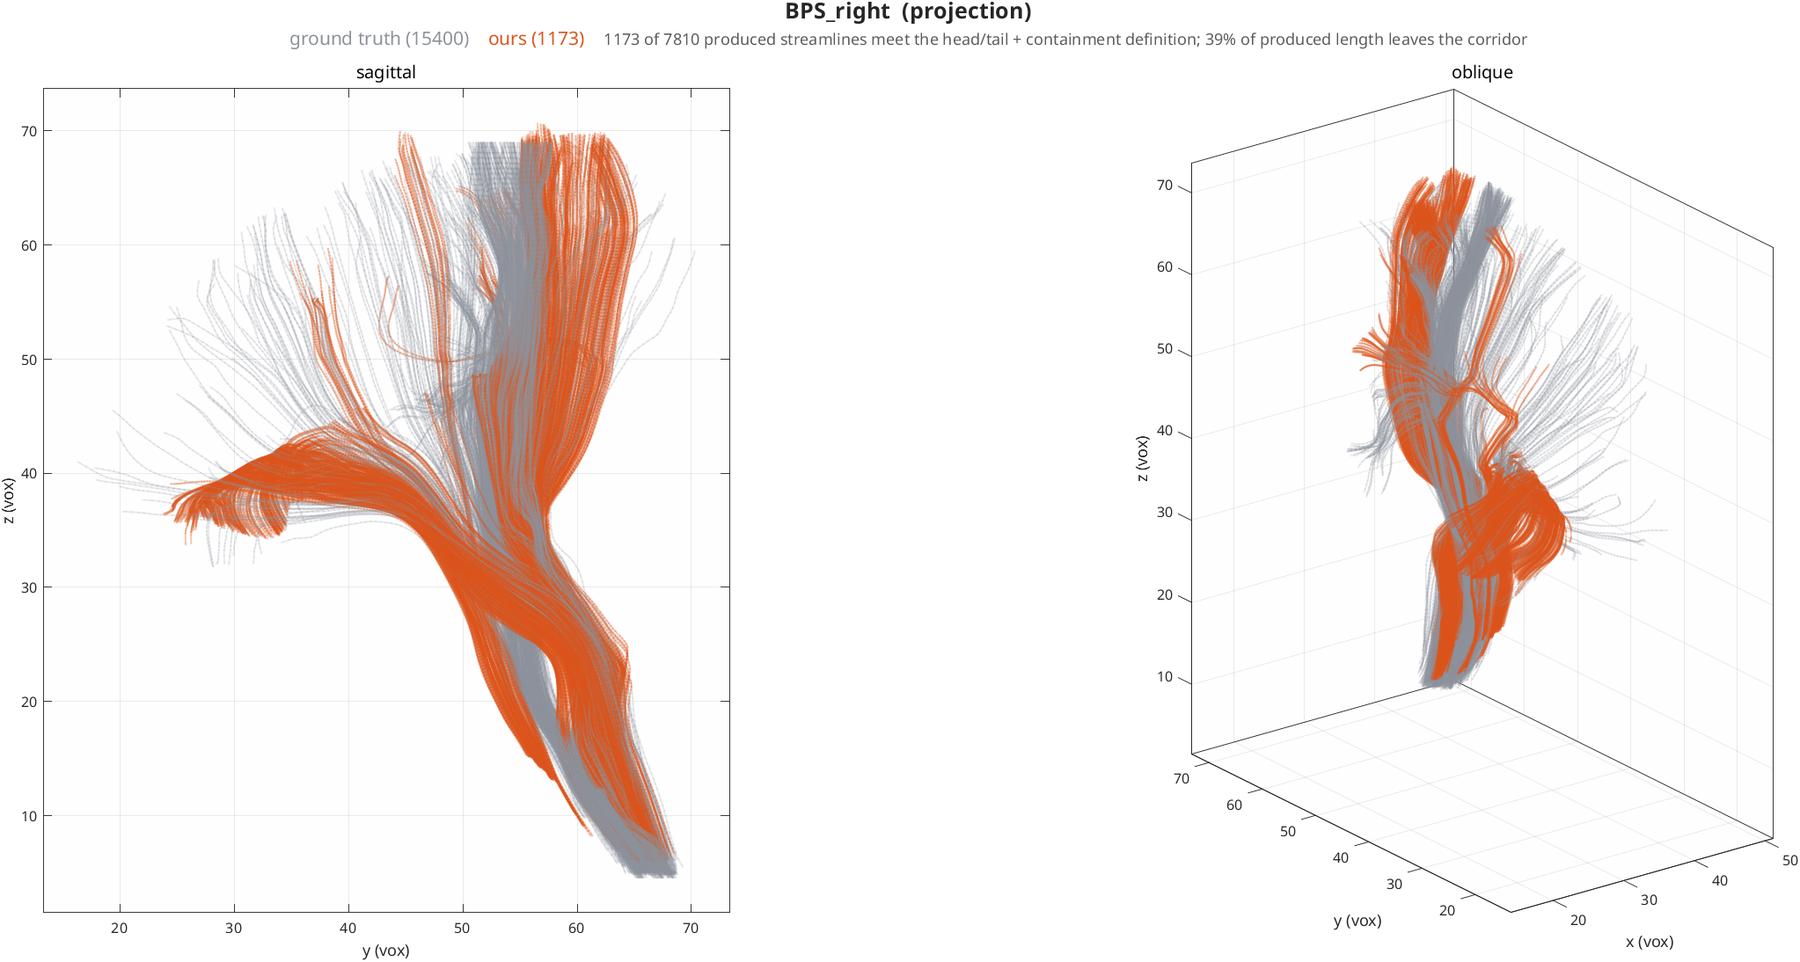
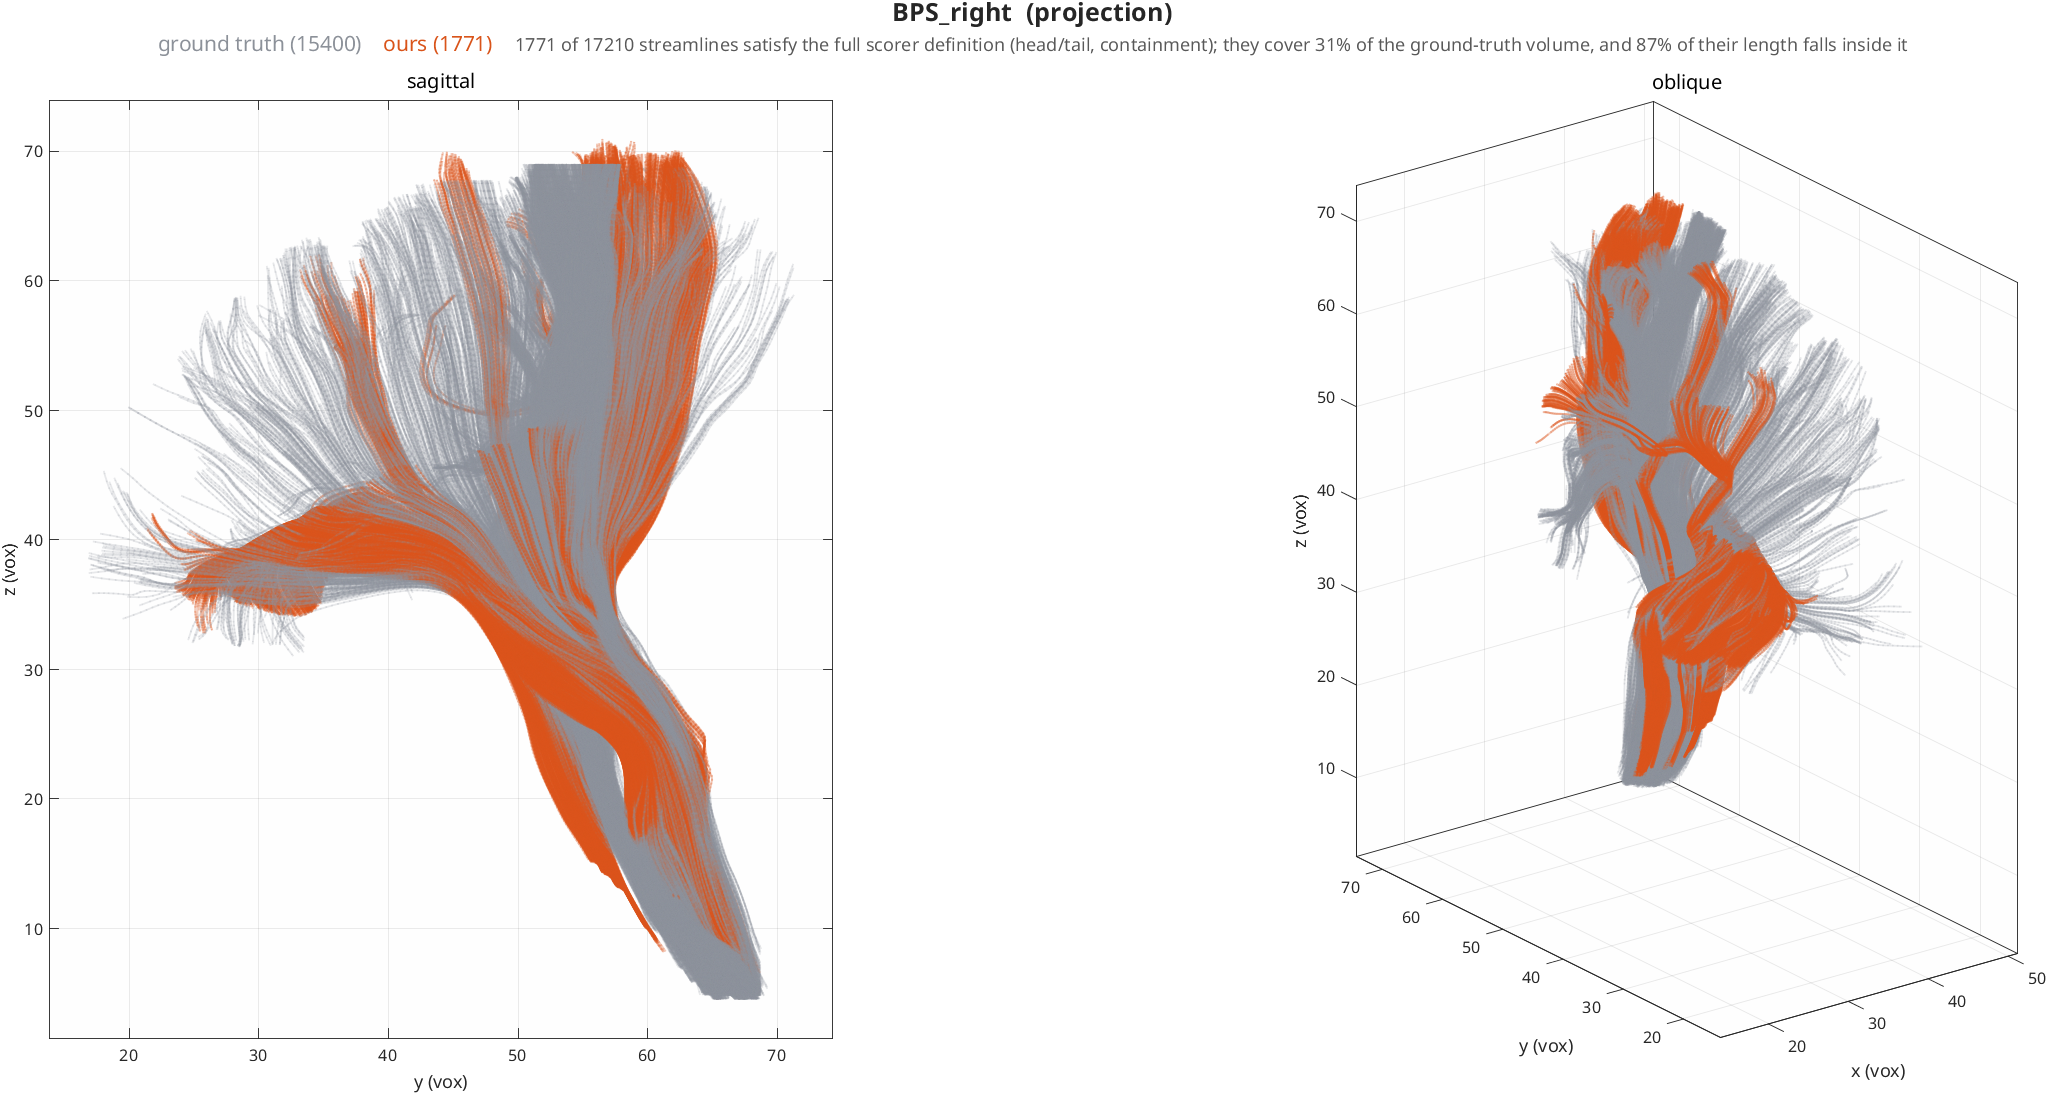
Report bundle coverage honestly, and the whole-brain score
The figures are regenerated at FA thresholds matched to the tissue and
segmented by the scorer's full definition. The reported numbers change
substantially, and downward.

This page previously led with 94-100% "agreement". That was a
precision-like quantity measured against the containment corridor rather
than the ground truth. Coverage of the ground truth - the recall-like
number, and the one that belongs next to the picture - is 31-53%. Both are
now reported side by side so neither can stand alone.

Adds the first result comparable to a published submission: whole-brain,
60209 streamlines, mean F1 0.350, OL 0.323, OR_gt 0.283, 22 of 26 bundles
found, 53% of streamlines valid.

Adds a census of why streamlines leave a bundle, over the 715
Cingulum_right streamlines that ran along it and then departed: 27% at a
planar voxel (crossing fibres), 9% where FA collapses, and 65% at a voxel
whose tensor is linear with normal FA and confidently pointing along a
different bundle. That last mode is the largest and CSD cannot address it,
since CSD separates fibres by orientation and two tangential bundles share
one. The direction field itself sits 5.6-9.1 degrees from the ground truth,
so this is not integration error.

diff --git a/docs/ISMRM_SCORING_ANALYSIS.md b/docs/ISMRM_SCORING_ANALYSIS.md
@@ -23,43 +23,99 @@ original 2015 scoring system).
 
 ## Reconstruction against ground truth
 
-Each bundle below is seeded from its own ISMRM mask and then **segmented the way
-the scorer defines a bundle**: one endpoint in each of the head and tail ROIs,
-and every point inside the containment corridor. Grey is the ground-truth
-tractogram; colour is ours.
+Each bundle below is seeded from its own ISMRM mask and then segmented by the
+**full scorer definition** taken from `config_file_segmentation.json`: one
+endpoint in each of the head and tail ROIs, every point inside the containment
+corridor, plus any inclusion mask and length bounds that bundle declares
+(`Cingulum_right` carries `length_x`, `CC_u_shaped` an inclusion mask and three
+length bounds). Grey is the ground-truth tractogram; colour is ours.
 
-!!! note "These are the streamlines that meet the definition, not everything produced"
-    The counts in each caption say how many of the produced streamlines survive
-    that test, and how much of the produced length leaves the corridor. Both
-    numbers are large: the tracker generates far more than the definition
-    accepts. Read the figure as *what the scorer would count*, not as the
-    tracker's raw output.
+Two different things are reported, and conflating them flatters the result:
 
-    Showing the raw output instead is not more informative, because the
-    containment corridor is a permissive gate rather than a bundle shape — for
-    `UF_right` it is 2.5× the volume of the ground-truth bundle and 60% of it is
-    space the ground truth never enters. Streamlines merely clipped to that
-    corridor spread through the empty 60%, agreeing with the ground truth over
-    only 62–93% of their length against 94–100% for the segmented bundles.
+- **coverage of the ground truth** — what fraction of the true bundle's volume our
+  streamlines occupy. This is the recall-like number and the honest headline.
+- **length inside the ground truth** — what fraction of our streamline length falls
+  within the true bundle. This is precision-like, and it is always the prettier
+  of the two.
 
-**How much the tracker overproduces:**
-
-| bundle | produced | meet the definition | length outside the corridor | agreement with GT |
+| bundle | produced | meets full definition | covers GT volume | length inside GT |
 |---|--:|--:|--:|--:|
-| CC_u_shaped | 16287 | 5656 (35%) | 26% | 99% |
-| BPS_right | 7810 | 1173 (15%) | 43% | 99% |
-| ILF_right | 2394 | 718 (30%) | 42% | 95% |
-| Cingulum_right | 5450 | 585 (11%) | 53% | 100% |
-| UF_right | 1398 | 363 (26%) | 62% | 98% |
-| SLF_right | 3901 | 365 (9%) | 59% | 94% |
+| CC_u_shaped | 39959 | 9864 | 53% | 87% |
+| BPS_right | 17210 | 1771 | 31% | 87% |
+| ILF_right | 6404 | 1541 | 52% | 75% |
+| Cingulum_right | 14074 | 1940 | 46% | 94% |
+| UF_right | 4693 | 995 | 49% | 75% |
+| SLF_right | 10620 | 1350 | 37% | 71% |
 
-Two honest headlines sit in that table. The streamlines that meet the definition
-agree with the ground truth over 94–100% of their length — the reconstruction is
-good. But only **9–35% of what the tracker produces** meets it, and between a
-quarter and two thirds of produced length leaves the bundle it was seeded in. The streamlines are typically correct along the bundle and then
-continue past its end onto whichever tract is locally strongest — a crossing
-problem, not a termination one. `field: csd` is the intended remedy and has not
-yet been evaluated here.
+**We reconstruct between a third and a half of each bundle**, and what we do
+reconstruct sits mostly inside the true bundle (71–94%). Earlier versions of this
+page quoted 94–100% "agreement"; that was the precision-like quantity measured
+against the *corridor* rather than the ground truth, and it should not have been
+the headline.
+
+!!! warning "The `produced` column is not a failure rate"
+    It is dominated by a seeding choice. These runs seed uniformly inside each
+    bundle's containment corridor, and that corridor is far larger than the
+    bundle: for `Cingulum_right` it is 38188 voxels against the 8070 the bundle
+    actually occupies, so **79% of the corridor is other tissue**. 62% of the
+    seeds therefore start off-bundle, and 93% of those leave the corridor —
+    which is the *correct* behaviour for a tracker following the fibres that are
+    really there. Seeds that do start inside the true bundle stay contained at
+    41%, against 7% for the rest. Only a whole-brain run gives this denominator
+    a meaning; see below.
+
+## Whole-brain benchmark
+
+`config/ismrm_wholebrain.yml` produces one whole-brain tractogram and lets the
+scorer segment all 26 bundles out of it, which is what the challenge is designed
+for and what makes the numbers comparable to a published submission.
+
+| metric | value |
+|---|--:|
+| streamlines | 60209 |
+| mean F1 | 0.350 |
+| mean overlap (OL) | 0.323 |
+| mean overreach (OR\_gt) | 0.283 |
+| valid bundles found | 22 of 26 |
+| valid streamlines | 31641 (53%) |
+| invalid streamlines | 28568 |
+
+DTI with an accurate integrator finds most of the bundles and gets about half its
+streamlines accepted. That is a middling result, and the reason is structural
+rather than numerical.
+
+## Why streamlines leave the bundle
+
+The direction field is not the weak link. Sampled along the ground truth,
+the interpolated field the tracker actually follows sits 5.6–9.1° from the true
+tract direction, and RK4 on it converges at observed order 4.00
+(`docs/CONVERGENCE.md`). The failures are not integration error.
+
+Taking the 715 `Cingulum_right` streamlines that demonstrably ran along the
+bundle and then left it, and classifying the voxel where each one first departed
+by more than 45°:
+
+| what the tensor looks like where it departs | share | interpretation |
+|---|--:|---|
+| planar (C_P > 0.12), FA normal | 27% | two fibre populations in one voxel |
+| FA collapsed below 0.08 | 9% | too little anisotropy to define a direction |
+| linear (median C_L 0.191), FA normal (0.184) | 65% | a confident single direction belonging to another bundle |
+
+The median departure is at z = 48, on the dorsal arc, not at the bend — only 42%
+occur in the bend band at all.
+
+This matters for what to do next. `field: csd` resolves multiple fibre
+orientations per voxel and should recover a useful part of the 27%. It cannot
+address the 65%: CSD separates fibres by *orientation*, and two bundles running
+tangentially share one orientation, so nothing local distinguishes them. That
+needs non-local information — global tractography, anatomical priors, or
+bundle-level regularisation.
+
+One further property makes small errors expensive. A streamline is a path
+integral, so a direction error is not averaged away by later steps: once a
+streamline transfers onto a neighbouring tract, every subsequent step correctly
+follows *that* tract. A field with 6° median error still yields 46% coverage
+because the rare large errors are absorbing.
 
 These remain **qualitative** figures, and seeding from a bundle's own mask is a
 far easier problem than the whole-brain submission the challenge is designed

diff --git a/docs/CONVERGENCE.md b/docs/CONVERGENCE.md
@@ -41,16 +41,19 @@ with the refinement parameter is not a fixed problem to converge to.
 ![Right uncinate fasciculus: ours against the ISMRM ground truth](img/bundle_uf_right.png)
 
 *The seed region. Grey is the ISMRM ground-truth `UF_right` bundle, red is ours,
-segmented by the scorer's own head/tail and containment test. Shown only to establish what the
-convergence ladders are tracking through — it is a validation figure and the
-ladders do not depend on it.*
+segmented by the scorer's full definition (head/tail endpoints, containment, and
+any inclusion or length criteria the bundle declares). Shown only to establish
+what the convergence ladders are tracking through — it is a validation figure and
+the ladders do not depend on it.*
 
 !!! note "Do not read this as an accuracy claim"
-    Applying the scorer's full definition (endpoint pair plus containment) leaves
-    streamlines that are 98.5% inside the ground-truth envelope, but that number
-    describes the survivors of a filter that discards most of what was produced.
-    Measured on the unfiltered output, **62% of `UF_right` streamline length
-    leaves the bundle corridor**. See
+    Convergence is *solution verification* — it shows the discretisation is solved
+    correctly, not that the answer is anatomically right. Those are independent,
+    and this pipeline is demonstrably good at the first and middling at the
+    second: the same tracker that converges at observed order 4.00 recovers
+    **49% of the `UF_right` ground-truth volume**, with 75% of its streamline
+    length falling inside that bundle. Whole-brain, it scores mean F1 0.350.
+    The limit is the single-tensor model, not the numerics. See
     [ISMRM Scoring](ISMRM_SCORING_ANALYSIS.md#reconstruction-against-ground-truth).
 
 ### The error metric
